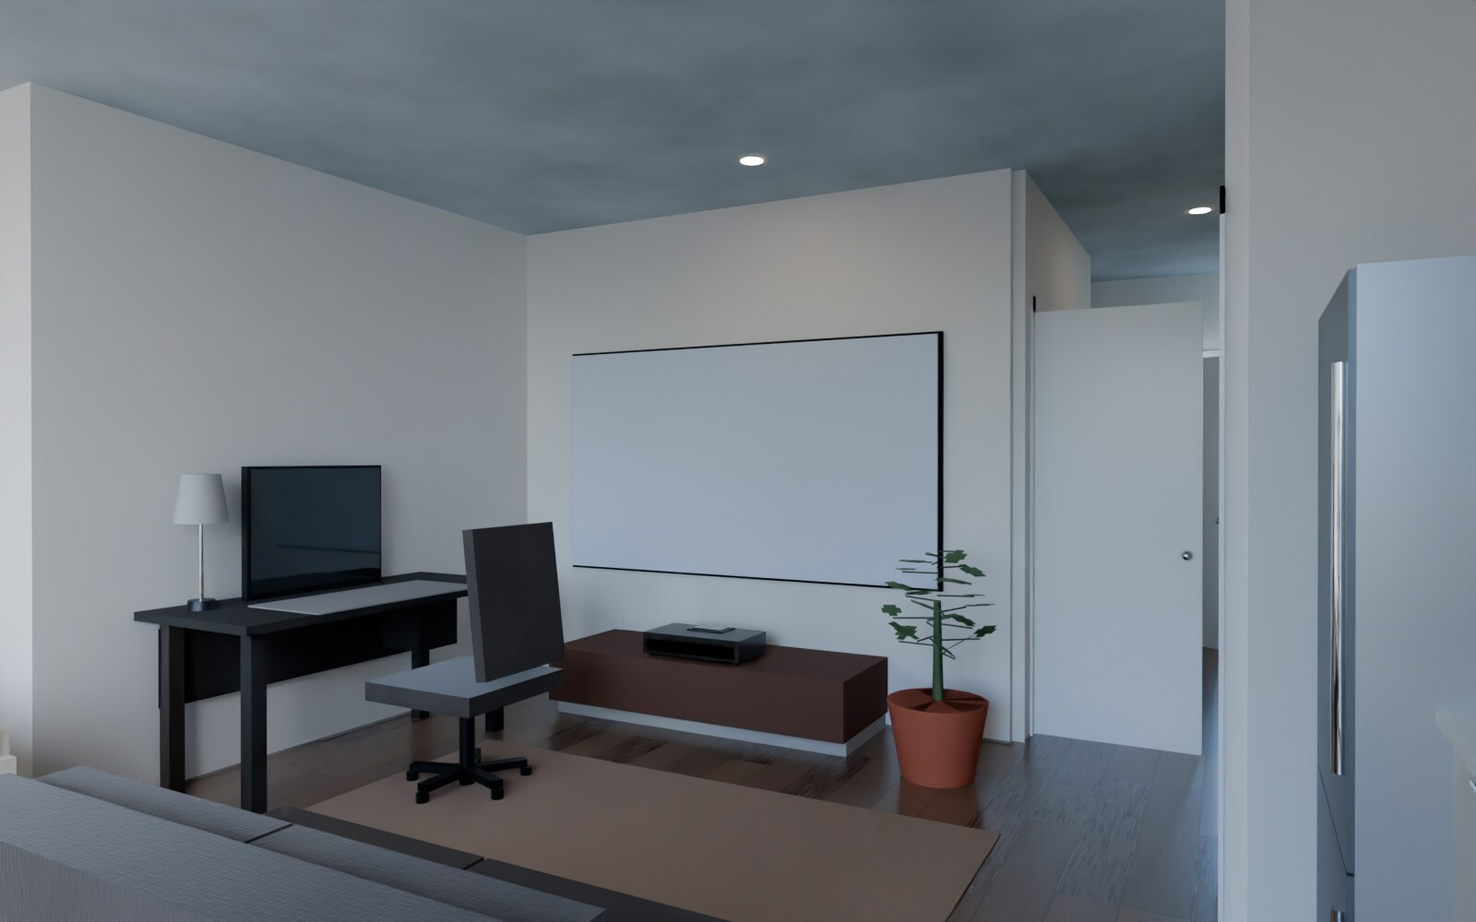
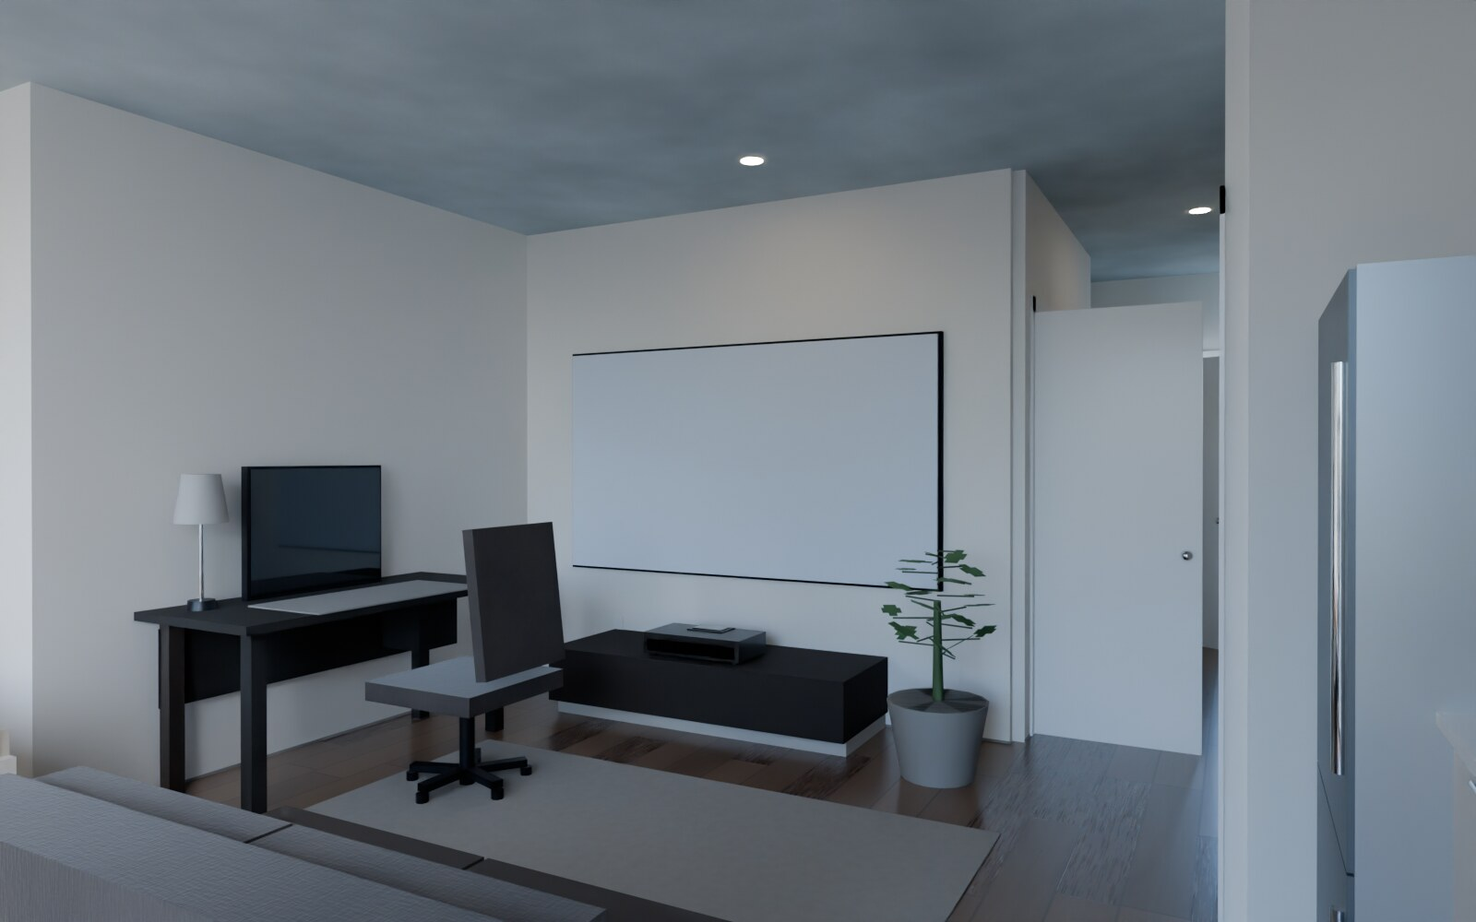
feat(budgets): update rug item in budget CSV and layout references
Replaced the "Nordic Knots Desert" rug with the "Nordic Knots Zero" rug in the budget CSV and layout files, ensuring accurate representation of the selected item. Updated associated descriptions to reflect the new rug's characteristics and aesthetic rationale, enhancing clarity in the budget and layout documentation.

Changed region(s): [[0.375, 0.682, 0.6875, 0.868], [0.5, 0.93, 0.6562, 1.0]]

diff --git a/src/layouts/a-night-wall.ts b/src/layouts/a-night-wall.ts
@@ -319,11 +319,11 @@ const layout: Layout = {
     },
     {
       id: 'rug-viewing',
-      def: 'rug-nordicknots-desert-8x10',
+      def: 'rug-nordicknots-zero-warmgray-8x10',
       at: [RUG_X, RUG_Y],
       rot: 90,
-      label: 'Nordic Knots Desert 8x10, 7 mm flatweave',
-      note: 'Defines the viewing floor: from under the sofa\'s front feet east to 1\'-8" short of the plinth. 7 mm total build — the thinnest rug in the catalog — which is the reason it can run under the parked task chair without rucking, and why it is this rug and not a pile.',
+      label: 'Nordic Knots Zero 8x10, undyed wool, 7 mm flatweave',
+      note: 'Defines the viewing floor: from under the sofa\'s front feet east to 1\'-8" short of the plinth. 7 mm total build — the thinnest rug in the catalog — which is the reason it can run under the parked task chair without rucking, and why it is this rug and not a pile. IT REPLACED THE DESERT IN EARTH AND THE ARGUMENT WAS AESTHETIC: the Desert is the floor\'s own hue one value up, so the viewing floor was brown on brown and the rug was the least interesting decision in the room. Undyed wool at 31% LRV is the only soft surface in the scheme between the sofa\'s 4% and the bed\'s 56%, and it is the first thing at eye level that the cool concrete soffit has anything in common with. Same maker, same 7 mm, same $395 — nothing in the plan moved.',
     },
     {
       id: 'plant-screen',
@@ -493,7 +493,7 @@ const layout: Layout = {
     'THE SLEEPING ALCOVE, AND WHY IT IS BUILT THE WAY IT IS. The first version of this scheme spent $79 on the bed — a white powder-coated GRIMSBU — and hung the rest of the bedroom on the wall: a floating walnut ledge at 24" and a 5\'-9 3/8" String shelf at 30". Path-traced, that reads exactly as what it is, a white slab under two brackets, and it also required drilling a rented wall in three places. THE REVISED ALCOVE FIXES BOTH, AND EVERY PIECE IN IT STANDS ON THE FLOOR, SITS ON THE BED, OR LIVES UNDER IT. (1) The frame is an Article Basi queen in WHITE OAK, $399, 12" tall, no headboard — a plain slab floating over a 6" shadow gap on inset legs. IT REPLACED AN AWARA BAMBOO QUEEN AT $768 AND THE REASON WAS AESTHETIC, SAID PLAINLY: the client did not want visible japandi joinery. What matters is that the answer was a different FORM at a similar TONE rather than a different tone — the floor here is espresso, and a pale slab over a dark gap is the strongest reading of "floating" this room can produce. The same frame in walnut would sit at almost the same value as the floor planks and the slab, the gap and the floor would merge into one dark mass. It is also 0.9" narrower and 0.9" shorter than the Awara, and in this plan both of those come straight back into the tightest aisle in the apartment. (2) The head of the bed is a WINDOW, so there is no headboard at all and there cannot be: every headboard sourced for every frame here breaks the rule. The Basi\'s parts list calls two of its four rails "headboard" and "footboard" but all four stand 12", so there is nothing to break it. Made up, the tallest thing on the bed is a pillow at about 2\'-0", i.e. 6" under the glazing rule where the Awara had 4", so from the sofa the west glass reads full height straight over the bed. (3) The bedside is a TONSTAD oak nightstand standing in the aisle at the south-west corner of the mattress, because the head has glass on one side and a wall on the other and that corner is the only bedside position this plan owns. It is 15 3/4" square, and the analyzer confirms it costs the walk NOTHING — the route widths are identical with it in and with it out. (4) On it stands a Flos Bellhop, which is CORDLESS: there is no outlet at a glazed wall and a cord to that corner would cross the tightest walkway in the apartment. (5) Storage moved under the bed, AND THIS IS THE ONE PLACE THE NEW FRAME IS WORSE. The Awara gave 8.3" of clearance and swallowed 7 1/2" SKUBB cases at 90 litres each; the Basi gives 6", which a SKUBB does not fit, so the boxes drop to 4 1/2" and 45 litres — half the box. Four are drawn instead of three and that recovers some of it: 180 litres against 362. It is still a real loss, and in a scheme with NO DRESSER AND NO WARDROBE it is the loss that matters most. Read honestly: the under-bed store went from about a three-drawer chest of folded clothes to about a drawer and a half. That is what $369 and 0.9" of aisle actually cost.',
     'WHY THE BED IS NOT TURNED 90 DEG — ASKED, BUILT, MEASURED, REJECTED. The obvious move is to put the head against the notch\'s NORTH wall with the foot pointing south, which would buy three real things: both long sides accessible (the bed-access warning above disappears), a solid wall behind the pillows so a proper headboard becomes legal — the Basi takes Article\'s Rolph at $699 — and a matching nightstand on each side. IT WAS DRAWN AS A LAYOUT AND RUN THROUGH pnpm check, TWICE (bed centred with 2\'-0" each side, and bed shoved west with 1\'-0"), AND BOTH FAILED THE SAME WAY: the required routes collapse to 1\'-3" and 1\'-6" against a 2\'-6" absolute minimum, i.e. two tight-path warnings instead of one bed-access warning. ONE HALF OF THAT ARGUMENT EXPIRED ON 31 Jul 2026 AND THE FILE HAS TO SAY SO. It used to add that the bed-access warning would not even go away, because the notch is 9\'-4 1/8" wide and the 5\'-3 7/8" Awara left 4\'-0 1/8" to split — 1\'-11" a side against a 2\'-0" requirement, one inch short on both sides at once. THE BASI IS 5\'-3", which leaves 4\'-1 1/8" to split, i.e. 2\'-0 9/16" a side. That CLEARS. So a rotated bed would now pass bed-access, and the only thing still rejecting it is circulation. THE ARITHMETIC THAT DOES STILL REJECT IT is one line. Between the notch\'s north wall and the kitchen aisle there is 12\'-11 1/4" of depth. Side-on the bed spends 5\'-3" of it, which leaves 2\'-6" of walk and a 4\'-8" sofa with 6 1/4" to spare. Turned 90 deg it spends 6\'-11" — 1\'-8" more — and the same walk and the same sofa now need 14\'-1" of a 12\'-11 1/4" room. IT IS SHORT BY 1\'-1 3/4", so the sofa\'s back and the bed\'s foot end up about 1\'-4" apart and that gap becomes the only east-west route in the apartment. Turning the bed does not cost circulation, it costs THE CONGREGATION AREA, which is one of the four hard requirements. Two schemes in this repo do take that trade deliberately and neither of them does it by rotating a bed into a walkway: layout C makes the bed the back ROW of the seating (no aisle needed between them because the bed IS a seat), and layout E puts the queen on the wall so the floor is empty. If the client wants a headboard and two nightstands, the answer is C or E, not a rotation of A.',
     'THE ALCOVE ALSO BOUGHT BACK 30% OF THE PICTURE, WHICH WAS NOT THE POINT BUT IS THE BEST PART. The old scheme parked a 5\'-11 1/4" HEKTAR floor lamp in the dead shoulder east of the bed and the note claimed it was "out of every seat-to-screen sightline". IT WAS NOT: pnpm sightline casts 5 eye points per seat at 169 points on the image, and from the bed that lamp ate 33.8% of the picture — the bed could see 52.2% of what it was pointed at. A 23 1/2" sansevieria now stands in the same shoulder and blocks nothing, because 23 1/2" is below the 28 1/2" image bottom and therefore mathematically incapable of crossing any ray. The bed now sees 80.5% and the sofa 93.8%, and those two moved in OPPOSITE directions in the 31 Jul 2026 revision — 81.9% to 80.5% for the bed, 92.0% to 93.8% for the sofa. Both have the same cause and it is worth writing down, because it is the kind of thing that is invisible until it is measured. The MAGNUS is 2.4" shallower than the Jarvis, so the parked Aeron sits 2.4" further north and drops out of the sofa\'s rays: the sofa gains 1.8 points. But the Basi\'s sleeping surface is about 2" LOWER than the Awara\'s, so the eye on the bed is 2" lower, and a lower eye sees more of the chair against the picture: the bed loses 1.4 points. A cheaper, lower bed is very slightly worse at being a seat, and the layout accepts that because the bed is the fourth-best seat in the room and the sofa is the first. WHAT STILL BLOCKS: the parked Aeron, 19.5% from the bed and 4.7% from the sofa, and that one is structural to this layout rather than fixable in it — see layout E, which was drawn around exactly this problem. The sansevieria costs the sofa 1.4% and the poufs 1.1-1.8%, which is the price of the only planting position in the room. This scheme now has NO FLOOR LAMP anywhere, on purpose: any lamp tall enough to be useful in the viewing zone is tall enough to stand in the picture.',
-    'COLOUR — ONE SCHEME, STATED ONCE. The room is fixed by things nobody chose: an espresso wide-plank floor, flat white walls, a bare concrete soffit and BLACK anodised window frames, which are the only true black in the apartment. Against that, this layout runs two warm neutrals and exactly one accent. BAMBOO HAS LEFT THIS SCHEME ENTIRELY, and that happened by two separate decisions arriving at once: the bed went from an Awara bamboo frame to a white-oak Basi, and the desk went from a bamboo Jarvis top to a dark metal MAGNUS. The result is simpler than what it replaced rather than a compromise — the wood family is now two pale oaks and nothing else, and the desk moves out of the wood family into the equipment family where its colour is doing a job (see DESK ORIENTATION). THE NEUTRALS: pale white oak (bed frame) and brushed oak (nightstand) for wood — kept apart by VALUE, since they are now the same species, the Basi being paler and cooler and the TONSTAD warmer and browner; oat linen for the bed — Quince European Linen sheets in Oat with the duvet cover set in Sand, so the bed has two values in it instead of one flat white, which is what stops a white-bedded room from reading as a hotel. THE ACCENT: terracotta, and it appears exactly three times — the vintage-wash linen bed cover folded across the foot, the pot the sansevieria stands in, and the warm brown of the Nordic Knots Desert rug at the other end of the room, which is the same family a half-tone darker. THE DARKS ARE THE EQUIPMENT: charcoal Cleon, near-black poufs, the dark metal MAGNUS top, the black screen frame and the black window frames all belong to the same family and read as one thing. The desk is the newest member of it and the most useful — a dark top is the only large horizontal surface in this room that is not working against the projected image. WHAT IS DELIBERATELY ABSENT: grey-blue anything (it fights the warm floor), a second accent colour, and a white bed. Sheets are a design decision in a studio, not a utility purchase — the bed is in every sightline in the apartment, which is the whole reason the brief for this room is different from the brief for a bedroom.',
+    'COLOUR — ONE SCHEME, STATED ONCE. The room is fixed by things nobody chose: an espresso wide-plank floor, flat white walls, a bare concrete soffit and BLACK anodised window frames, which are the only true black in the apartment. Against that, this layout runs two warm neutrals and exactly one accent. BAMBOO HAS LEFT THIS SCHEME ENTIRELY, and that happened by two separate decisions arriving at once: the bed went from an Awara bamboo frame to a white-oak Basi, and the desk went from a bamboo Jarvis top to a dark metal MAGNUS. The result is simpler than what it replaced rather than a compromise — the wood family is now two pale oaks and nothing else, and the desk moves out of the wood family into the equipment family where its colour is doing a job (see DESK ORIENTATION). THE NEUTRALS: pale white oak (bed frame) and brushed oak (nightstand) for wood — kept apart by VALUE, since they are now the same species, the Basi being paler and cooler and the TONSTAD warmer and browner; oat linen for the bed — Quince European Linen sheets in Oat with the duvet cover set in Sand, so the bed has two values in it instead of one flat white, which is what stops a white-bedded room from reading as a hotel. THE ONE GREY, AND IT IS THE MOST DELIBERATE THING IN THE ROOM: the rug is a Nordic Knots Zero in undyed Warm Gray, 31% LRV. It replaced a Desert in Earth at 22%, and the reason is worth writing down because the Desert was not wrong so much as inert — it is the floor\'s own hue one value up, so the viewing floor was brown on brown, and the rug was the least interesting decision in the apartment. The grey does three things nothing else was doing. It puts a MID-TONE into the soft goods, which ran 56% (bed, linen) or under 4% (sofa, poufs) and had nothing in between but a 15 3/4" nightstand — that hole is why the room would otherwise photograph graphic rather than calm. It gives the exposed concrete soffit a partner at eye level, so the slab reads as a material somebody chose instead of leftover construction; everything else in the scheme is warm, and the ceiling measures cool (finishes.ts puts B-R at +22). And it is MATERIAL rather than COLOUR — undyed wool, the shade is the fleece — which is the register the floor, the slab and the anodised frames are already in. WARM grey, not blue-grey: R-B is +18. THE ACCENT: terracotta, and it now appears TWICE, both of them in the sleeping alcove — the vintage-wash linen bed cover folded across the foot, and the pot the sansevieria stands in. It used to appear three times, counting the Desert rug as "the same family a half-tone darker", which was always a stretch: at 16% LRV terracotta sits inside the floor\'s own 10-14% band and its own hue family, so it separates by almost nothing and a third appearance only spread it thinner. The 40" floor plant by the screen took a concrete pot instead, which keeps the viewing zone strictly neutral and concentrates the accent where the bed is. THE DARKS ARE THE EQUIPMENT: charcoal Cleon, near-black poufs, the dark metal MAGNUS top, the UST plinth in dark stained ash rather than the walnut it used to be — a projector cabinet is equipment, and as walnut it was a fourth wood value in a 448 sq ft apartment — the black screen frame and the black window frames all belong to the same family and read as one thing. The desk is the newest member of it and the most useful — a dark top is the only large horizontal surface in this room that is not working against the projected image. WHAT IS DELIBERATELY ABSENT: grey-blue anything (it fights the warm floor), a second accent colour, and a white bed. Sheets are a design decision in a studio, not a utility purchase — the bed is in every sightline in the apartment, which is the whole reason the brief for this room is different from the brief for a bedroom.',
     'GLAZING RULE. Nothing over 2\'-6" tall comes within 1\'-0" of the glass, and nothing in this layout stands in the analyzer\'s 1\'-0" window band at all. The closest pieces are the bed head at 1\'-0 1/2" (2\'-0" made up, pillows included — 6" under the limit), the nightstand at 1\'-0 1/2" (1\'-11 1/4") and the folded gateleg at 1\'-0 3/4" (2\'-5 1/8"). The two FRÖSVI folding chairs are 2\'-6 3/8" — 3/8" over the rule — and they stand 1\'-0 3/4" and 2\'-7" off the wall face, i.e. 3/4" and 1\'-7" outside the 1\'-0" band, which is the same trade layout D makes with its two stored FROSVI and for the same reason: they fold flat into the reach-in closet when nobody is eating. The Cleon sofa is 2\'-4" tall and the made-up queen 2\'-0", so from every seat in the room the glazing reads full height over the furniture.',
     'CIRCULATION, AND WHERE IT IS TIGHTEST. Two numbers carry the plan: the east-west walk between the bed\'s south side and the sofa\'s back is 2\'-8 3/8", and the north-south connector east of the sofa, between the sofa\'s front face and the parked desk chair, is 2\'-11 15/16". BOTH IMPROVED IN THE 31 Jul 2026 REVISION and it is worth being exact about how much, because it is less than it sounds. The Basi is 0.9" narrower than the Awara and the sofa was held rather than moved, so the whole 0.9" went into the east-west walk: 2\'-7 1/2" to 2\'-8 3/8". The MAGNUS is 0.9" narrower than the Jarvis and its east end is pinned by the plinth, so the desk\'s west end moved 0.9" EAST and the chair went with it: the connector gains the same 0.9" and no more. The MAGNUS is also 2.4" shallower, but that moves the chair NORTH, not west — it does nothing for the connector and instead opens the gap between the parked chair and the sofa\'s north-west corner from 5 1/8" to 7 9/16". Between them the two swaps also widen the north-wall passage between the foot of the bed and the desk\'s west end from 2\'-4 7/16" to 2\'-6 1/4". WHAT DID NOT CHANGE: the analyzer still reports 2\'-6" for the bathroom-to-bed trip, for the walk down the promenade to the west windows, and for the narrowest path in the plan — so the gain, real as it is, is not where those routes bind. The other required trips are unchanged at 3\'-6" front door to bathroom, 3\'-0" front door to kitchen sink and 4\'-0" sink to refrigerator. The desk chair does still sever the north wall walk, now at x 12\'-4 15/16" to 14\'-7 15/16"; you go round it, which is what the connector is for.',
     'BUILT-INS HELD CLEAR. The 3\'-6" kitchen work aisle (nothing south of y 13\'-6 7/8" for x < 17\'-11 3/8"), the 3\'-0" fridge and laundry zones and the 2\'-6" strip in front of the four reach-in closet doors are all clear. The bathroom door\'s 2\'-8" leaf and the 3\'-2" entry door arc are clear. The rug is walkable and stops 1/4" short of the kitchen aisle line.',

diff --git a/src/core/catalog.ts b/src/core/catalog.ts
@@ -2075,8 +2075,15 @@ const DEFS: FurnitureDef[] = [
     d: IN(18),
     h: IN(40),
     color: LEAF,
-    accent: TERRACOTTA,
-    source: `Medium floor plant archetype: 40" overall in a 10" pot, 18" spread`,
+    // AN UNGLAZED CONCRETE POT, NOT A TERRACOTTA ONE. This is the plant that
+    // stands beside the screen in every layout that uses it, i.e. the most
+    // visible pot in the scheme, and terracotta there scattered the one accent
+    // across two zones. Grey keeps the viewing zone strictly neutral, leaves
+    // the accent concentrated in the sleeping alcove (bed cover + the
+    // SANSEVIERIA's pot, which stays terracotta), and echoes the exposed
+    // soffit - it is the same grey.
+    accent: CONCRETE,
+    source: `Medium floor plant archetype: 40" overall in a 10" unglazed concrete pot, 18" spread`,
     frontClearance: 0,
     tags: ['greenery', 'plant', 'small-space'],
     price: 79,
@@ -3073,6 +3080,29 @@ A PRICED ALTERNATIVE, 30 Jul 2026: SmartWings sells Side Rail Tracks for blackou
     tags: ['rug', 'flatweave', 'wool', 'jute', 'thin', 'viewing-zone', 'recommended'],
     price: 395,
   },
+  {
+    id: 'rug-nordicknots-zero-warmgray-8x10',
+    name: 'Nordic Knots Zero flatweave rug, 8x10 — Warm Gray',
+    kind: 'rug',
+    w: FTIN(8, 0),
+    d: FTIN(10, 0),
+    h: IN(0.276),
+    // UNDYED wool, so the colour is the sheep's and it varies across the piece.
+    // 31% LRV, which is the number that earns it a place: the floor measures
+    // 10-14% (finishes.ts), the soffit 26%, the nightstand 40%. It is the only
+    // soft surface in the scheme between 4% and 56% - see the layout A COLOUR
+    // note, which used to have a hole exactly there. Warm grey, NOT blue-grey:
+    // R-B is +18, which is the whole difference between bridging a warm floor
+    // and fighting it, and the reason the palette banned #55677A in the first
+    // place. Solid field, no border, so accent = color.
+    color: '#9E978C',
+    accent: '#9E978C',
+    source: `Nordic Knots "Zero" in Warm Gray, 8x10: 100% UNDYED wool flatweave, 7 mm total thickness, hand-woven, a plain solid field with no border and no pattern - the collection exists to show "the natural quality and characteristics of wool in its purest form", and the shade is the natural colour of the fleece rather than a dye lot, so it varies within the piece and between production runs. From $395.00 with free standard US delivery quoted at 3-6 business days. Composition, the 7 mm build, the undyed/solid-field description and the delivery window were read off nordicknots.com 31 Jul 2026; the same "From" price caveat as the Desert applies - no size-specific 8x10 figure could be extracted, so treat $395 as a FLOOR. SPECIFIED OVER THE DESERT IN LAYOUT A ON AESTHETIC GROUNDS, and the geometry is identical so nothing in that plan moves: 7 mm is the same build, which is what lets it run under a parked task chair without rucking and under the plinth without shimming. What changes is that the viewing floor stops being brown-on-brown - the Desert is the floor's own hue one value up - and becomes a neutral the espresso planks read against. It also gives the exposed concrete soffit a partner at eye level, which nothing else in the scheme did, and it is MATERIAL rather than COLOUR, which is the register the rest of this apartment is already in. HONEST COST: at 31% against the Desert's 22% it returns roughly 1.6x as much projector light to the screen - see the layout A PROJECTION note, where the walls are a bigger term than every furnishing combined.`,
+    walkable: true,
+    lowProfile: true,
+    tags: ['rug', 'flatweave', 'wool', 'undyed', 'thin', 'viewing-zone', 'neutral', 'recommended'],
+    price: 395,
+  },
 
   // ---- dining and guest seating that stows ------------------------------
   {
@@ -3356,9 +3386,17 @@ HONEST COSTS. (1) It reads as EQUIPMENT, not as furniture, and in a studio the d
     w: IN(66),
     d: IN(24),
     h: IN(14),
-    color: WALNUT,
+    // THE DARK STAINED ASH, NOT THE WALNUT - which the source below always
+    // offered as the alternative, and which is the better of the two. A UST
+    // plinth is a projector cabinet: it belongs to the EQUIPMENT family with the
+    // screen frame, the MAGNUS top, the poufs and the anodised glazing, not to
+    // the wood family. As walnut it was a fourth wood value in a 448 sq ft
+    // apartment that already carries an espresso floor, a white-oak bed and a
+    // brushed-oak nightstand. At 2.5% LRV it sits under the floor's 10-14% and
+    // beside the sofa's 3.7%, so the dark end reads as one mass, on purpose.
+    color: '#302B27',
     accent: NEAR_BLACK,
-    source: `BESPOKE MILLWORK, not a product. 66" W x 24" D x 14" H slab plinth with two push-open bays, walnut veneer or a dark stained ash to match the floor, sitting flush to the wall. Dimensions are DERIVED, and each one from a real constraint: 14" of height because image bottom = plinth top + ~14 1/2" for a 100" 16:9 UST image (Formovie's published install table for the 0.23:1 Theater, the only manufacturer table found that gives the vertical relationship) and a 45-55" image centre is what suits a 16-18" seat; 24" of depth because a UST's cabinet front lands 20-26" from the wall for a 100" image (PX3-PRO 20.2", Formovie Theater Premium 20.0", Hisense L9Q ~20.9", Epson LS650 26.2") and the whole body must be supported; 66" of width so it reads as a base under the picture. PRICE $650 IS A JOINERY ALLOWANCE for a simple veneered slab carcass with two push-open doors, not a quotation - get a real number from a cabinetmaker. WHY IT IS NOT A PRODUCT: every off-the-shelf media console sourced is 21-36" tall (BDI Corridor 8173 21", BESTA 25 1/4", Burrow Carta 26 1/4", BDI 8179 28 1/4", Blu Dot Shale 36"), and a 21" top already puts the image centre at 60" AFF. This unit's ABSENCE OF BASEBOARD is what makes a flush plinth possible at all: a standard 3/4" base would push the cabinet 3/4" further out, which on a 0.21:1 lens costs about 3 1/2" of image width.`,
+    source: `BESPOKE MILLWORK, not a product. 66" W x 24" D x 14" H slab plinth with two push-open bays, DARK STAINED ASH (the walnut veneer this entry used to specify is the alternative, not the default - see the colour note above), sitting flush to the wall. Dimensions are DERIVED, and each one from a real constraint: 14" of height because image bottom = plinth top + ~14 1/2" for a 100" 16:9 UST image (Formovie's published install table for the 0.23:1 Theater, the only manufacturer table found that gives the vertical relationship) and a 45-55" image centre is what suits a 16-18" seat; 24" of depth because a UST's cabinet front lands 20-26" from the wall for a 100" image (PX3-PRO 20.2", Formovie Theater Premium 20.0", Hisense L9Q ~20.9", Epson LS650 26.2") and the whole body must be supported; 66" of width so it reads as a base under the picture. PRICE $650 IS A JOINERY ALLOWANCE for a simple veneered slab carcass with two push-open doors, not a quotation - get a real number from a cabinetmaker. WHY IT IS NOT A PRODUCT: every off-the-shelf media console sourced is 21-36" tall (BDI Corridor 8173 21", BESTA 25 1/4", Burrow Carta 26 1/4", BDI 8179 28 1/4", Blu Dot Shale 36"), and a 21" top already puts the image centre at 60" AFF. This unit's ABSENCE OF BASEBOARD is what makes a flush plinth possible at all: a standard 3/4" base would push the cabinet 3/4" further out, which on a 0.21:1 lens costs about 3 1/2" of image width.`,
     frontClearance: IN(24),
     tags: ['credenza', 'media', 'ust-plinth', 'projection', 'millwork', 'bespoke', 'low', 'recommended'],
     price: 650,
